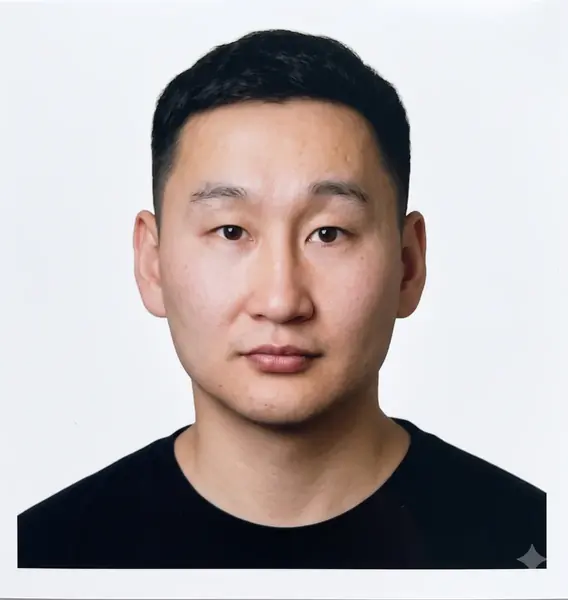
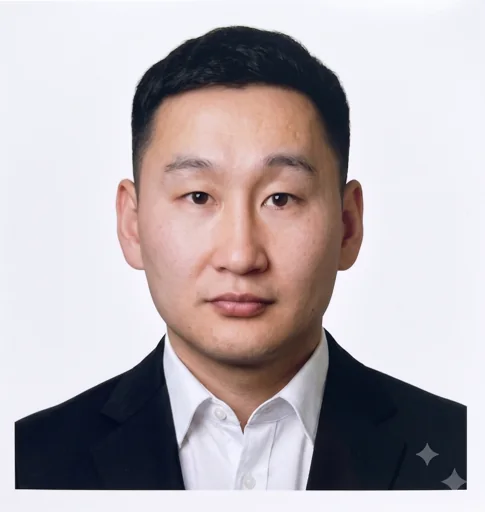
Update and optimize leadership portraits

diff --git a/client/src/components/AboutUs.js b/client/src/components/AboutUs.js
@@ -2,22 +2,23 @@ import { useLanguage } from '../context/LanguageContext';
 import tamirImage from '../assets/leadership/tamir-lkhamsuren.webp';
 import munkhErdeneImage from '../assets/leadership/munkh-erdene-baldandorj.webp';
 import dejidsurenImage from '../assets/leadership/dejidsuren-gonchigbal.webp';
-import enkhbatBoardImage from '../assets/leadership/enkhbat-munkhbold-board.webp';
+import enkhbatBoardImage from '../assets/leadership/enkhbat-munkhbold.webp';
 import temuujinImage from '../assets/leadership/temuujin-ganbaatar.webp';
 import boldbayarImage from '../assets/leadership/boldbayar-purevdorj.webp';
 import goyotsetsegImage from '../assets/leadership/goyotsetseg-davgadorj.webp';
 import bolorImage from '../assets/leadership/bolor-ganbold.webp';
 import munkhchuluunImage from '../assets/leadership/munkhchuluun-chuluunkhuu.webp';
-import zunbilegImage from '../assets/leadership/zunbileg-purevdorj.png';
-import tsendAuyshImage from '../assets/leadership/tsend-auysh-buyanbat.png';
-import bayarbayasgalanImage from '../assets/leadership/bayarbayasgalan-dorjgochoo.png';
+import zunbilegImage from '../assets/leadership/zunbileg-purevdorj.webp';
+import tsendAuyshImage from '../assets/leadership/tsend-auysh-buyanbat.webp';
+import bayarbayasgalanImage from '../assets/leadership/bayarbayasgalan-dorjgochoo.webp';
+import edwardLeeImage from '../assets/leadership/edward-lee.webp';
 import '../styling/about-us.css';
 
 const boardMembers = [
   { name: 'Tamir Lkhamsuren', role: 'Chairman of Board', image: tamirImage, splitName: true },
   { name: 'Munkh-Erdene Baldandorj', role: 'Board Member', image: munkhErdeneImage, photoClass: 'leadership-photo--munkh-erdene', splitName: true },
   { name: 'Dejidsuren Gonchigbal', role: 'Board Member', image: dejidsurenImage, photoClass: 'leadership-photo--dejidsuren', splitName: true },
-  { name: 'Enkhbat Munkhbold', role: 'Board Member', image: enkhbatBoardImage, splitName: true },
+  { name: 'Enkhbat Munkhbold', role: 'Board Member', image: enkhbatBoardImage, photoClass: 'leadership-photo--enkhbat', splitName: true },
   { name: 'Temuujin Ganbaatar', role: 'Board Member', image: temuujinImage, splitName: true },
 ];
 
@@ -27,14 +28,15 @@ const administration = [
 ];
 
 const ministryLeaders = [
-  { name: 'Temuujin Ganbaatar', role: 'Worship Team', image: temuujinImage },
-  { name: 'Enkhbat Munkhbold', role: "Men's Fellowship", image: enkhbatBoardImage },
-  { name: 'Boldbayar Purevdorj', role: 'Youth Fellowship', image: boldbayarImage, photoClass: 'leadership-photo--boldbayar' },
-  { name: 'Goyotsetseg Davgadorj', role: 'Women Fellowship', image: goyotsetsegImage },
-  { name: 'Bolor Ganbold', role: "Children's Ministry", image: bolorImage, splitName: true },
-  { name: 'Munkhchuluun Chuluunkhuu', role: 'Choir Ministry', image: munkhchuluunImage, photoClass: 'leadership-photo--munkhchuluun' },
-  { name: 'Tsend-Auysh Buyanbat', role: 'Fellowship Ministry', image: tsendAuyshImage },
-  { name: 'Bayarbayasgalan Dorjgochoo', role: 'Fellowship Ministry', image: bayarbayasgalanImage },
+  { name: 'Temuujin Ganbaatar', role: 'Worship Team', image: temuujinImage, splitName: true },
+  { name: 'Enkhbat Munkhbold', role: "Men's Fellowship", image: enkhbatBoardImage, photoClass: 'leadership-photo--enkhbat', splitName: true },
+  { name: 'Tsend-Auysh Buyanbat', role: 'Fellowship Ministry', image: tsendAuyshImage, splitName: true },
+  { name: 'Goyotsetseg Davgadorj', role: 'Women Fellowship', image: goyotsetsegImage, splitName: true },
+  { name: 'Bolor Ganbold', role: "Children's Ministry", image: bolorImage, photoClass: 'leadership-photo--bolor', splitName: true },
+  { name: 'Munkhchuluun Chuluunkhuu', role: 'Choir Ministry', image: munkhchuluunImage, photoClass: 'leadership-photo--munkhchuluun', splitName: true },
+  { name: 'Boldbayar Purevdorj', role: 'Youth Fellowship', image: boldbayarImage, splitName: true },
+  { name: 'Bayarbayasgalan Dorjgochoo', role: 'Fellowship Ministry', image: bayarbayasgalanImage, splitName: true },
+  { name: 'Edward Lee', role: 'Interhigh Ministry', image: edwardLeeImage, splitName: true },
 ];
 
 function LeadershipCard({ person }) {

diff --git a/client/src/styling/about-us.css b/client/src/styling/about-us.css
@@ -145,14 +145,16 @@
   background: #e2e3e5;
 }
 
-.leadership-photo--boldbayar {
-  box-sizing: border-box;
-  padding: 3%;
-  background: #fff;
-}
-
 .leadership-photo--munkhchuluun {
   transform: scale(1.08);
+}
+
+.leadership-photo--bolor {
+  transform: scale(1.18) translateY(3%);
+}
+
+.leadership-photo--enkhbat {
+  filter: brightness(1.22) contrast(0.94);
 }
 
 .leadership-card h3 {
@@ -208,7 +210,7 @@
   }
 
   .leadership-group--ministry-leaders .leadership-grid {
-    grid-template-columns: repeat(4, minmax(0, 1fr));
+    grid-template-columns: repeat(3, minmax(0, 1fr));
   }
 }
 
